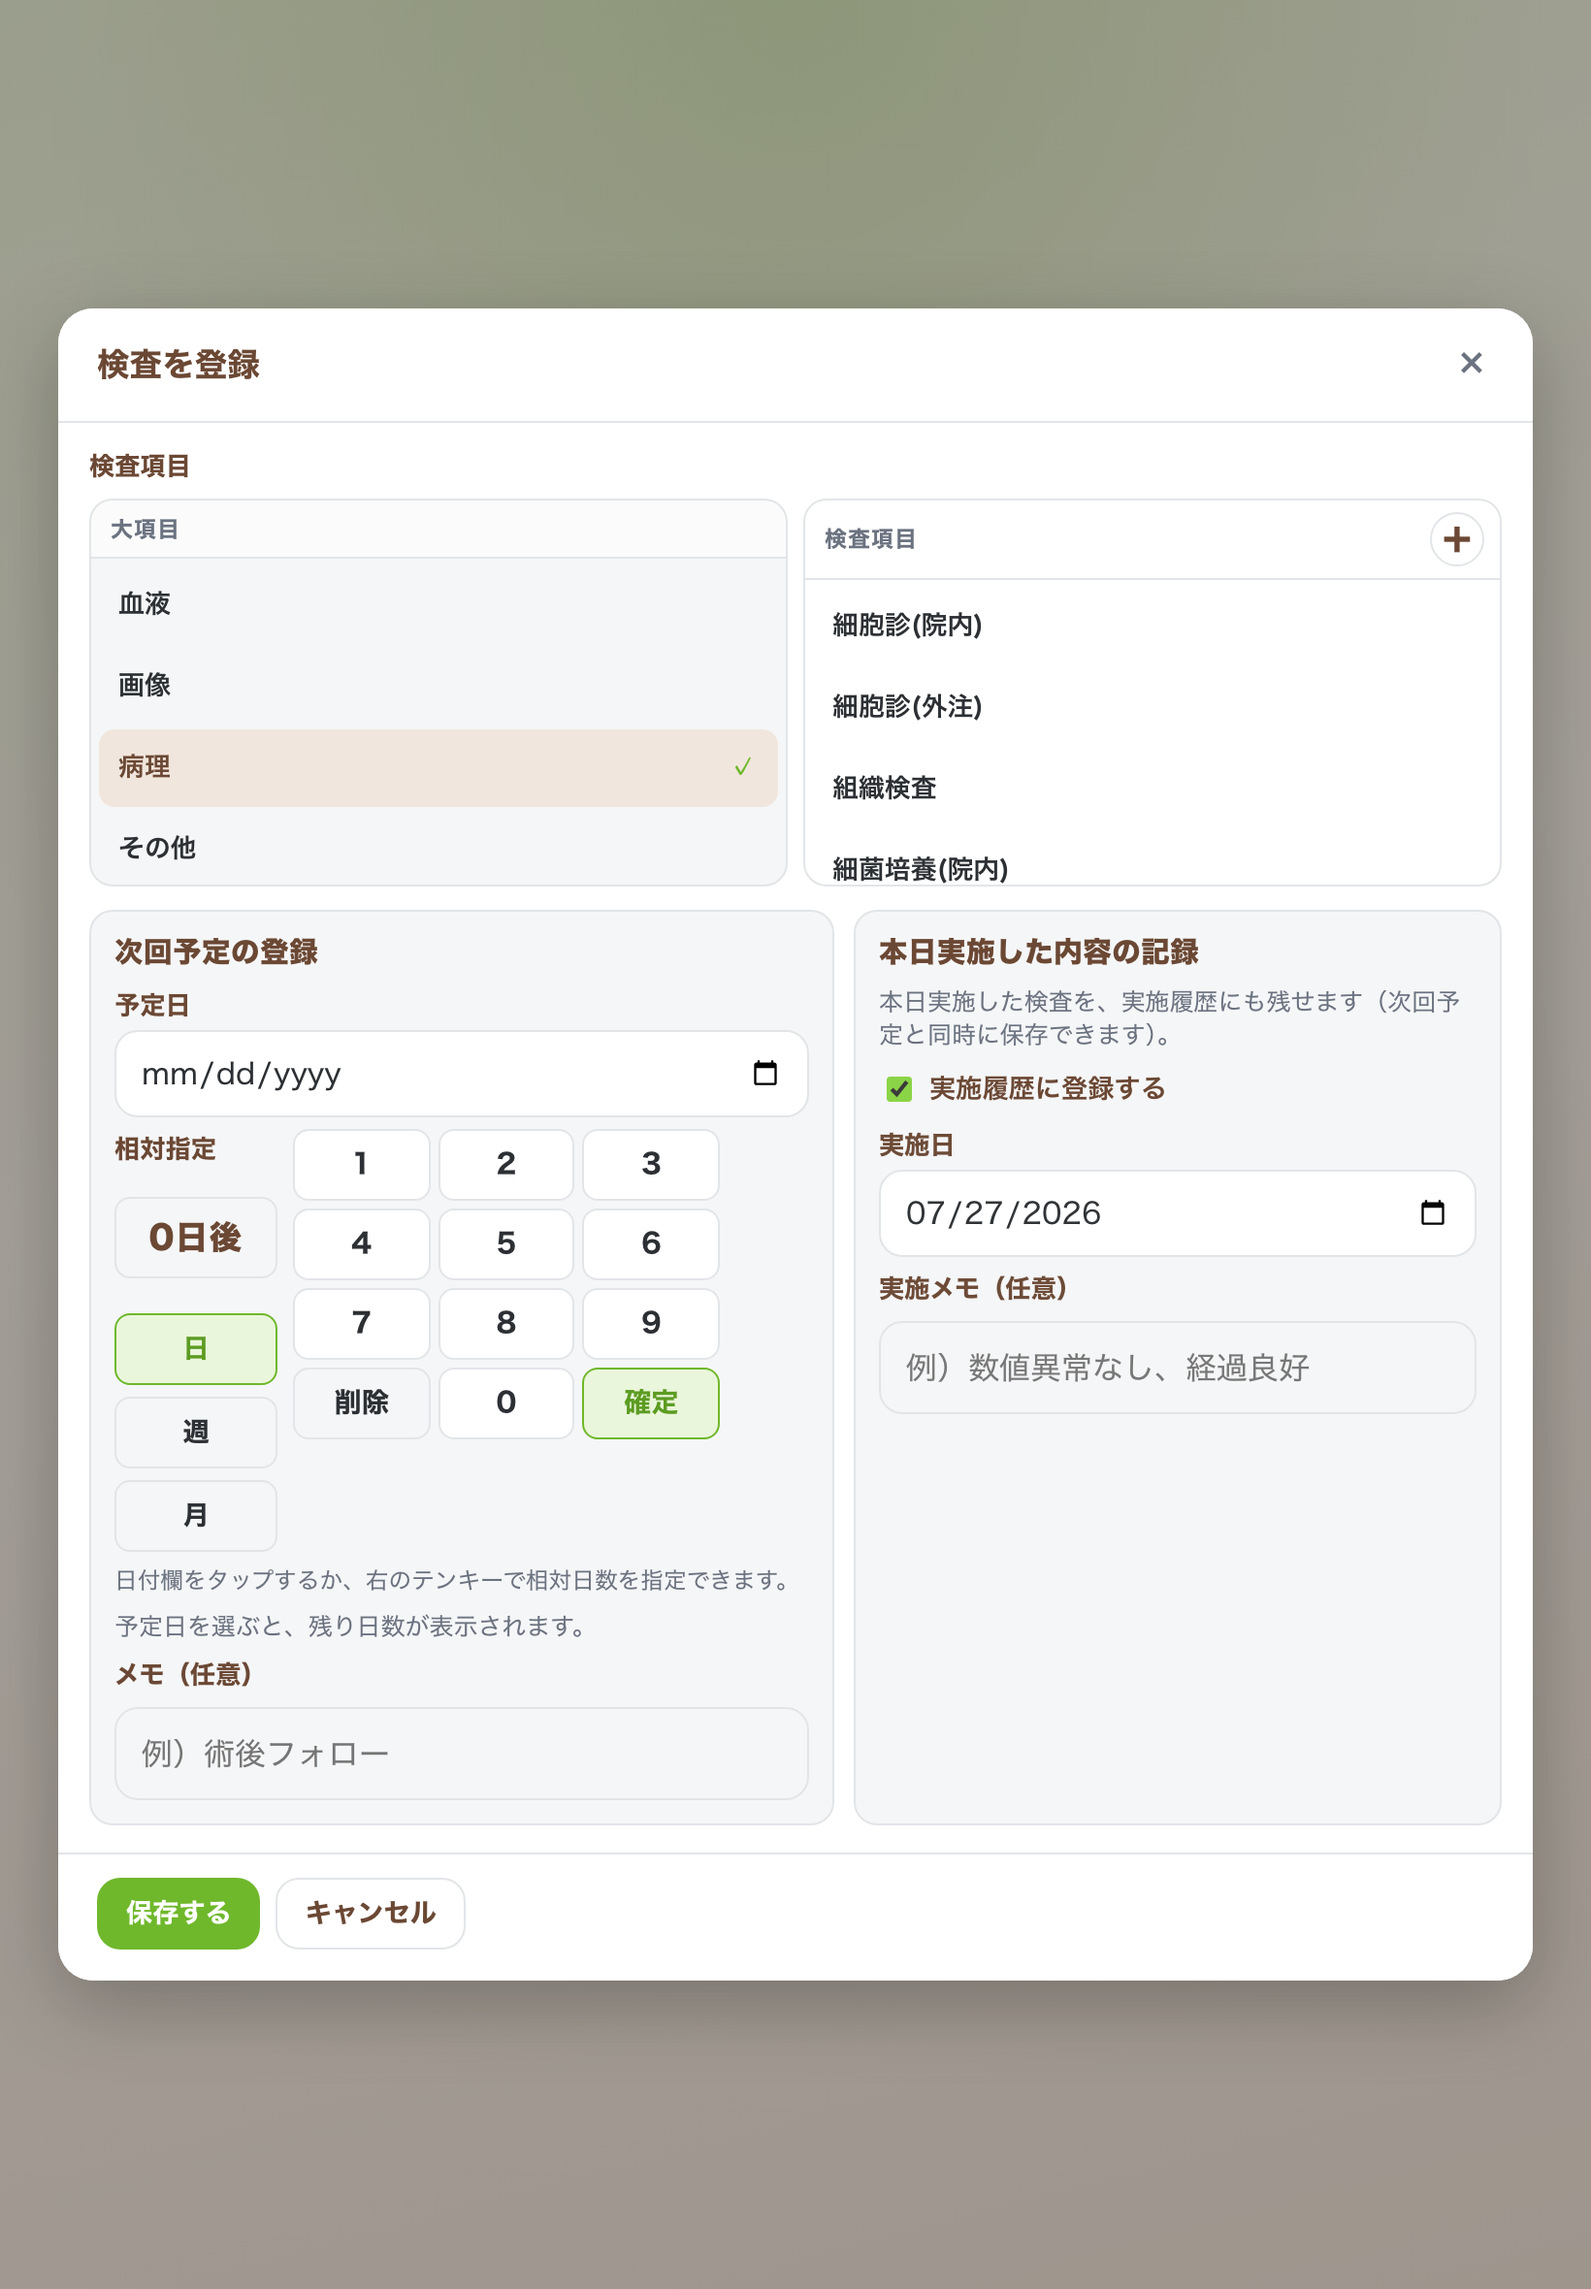
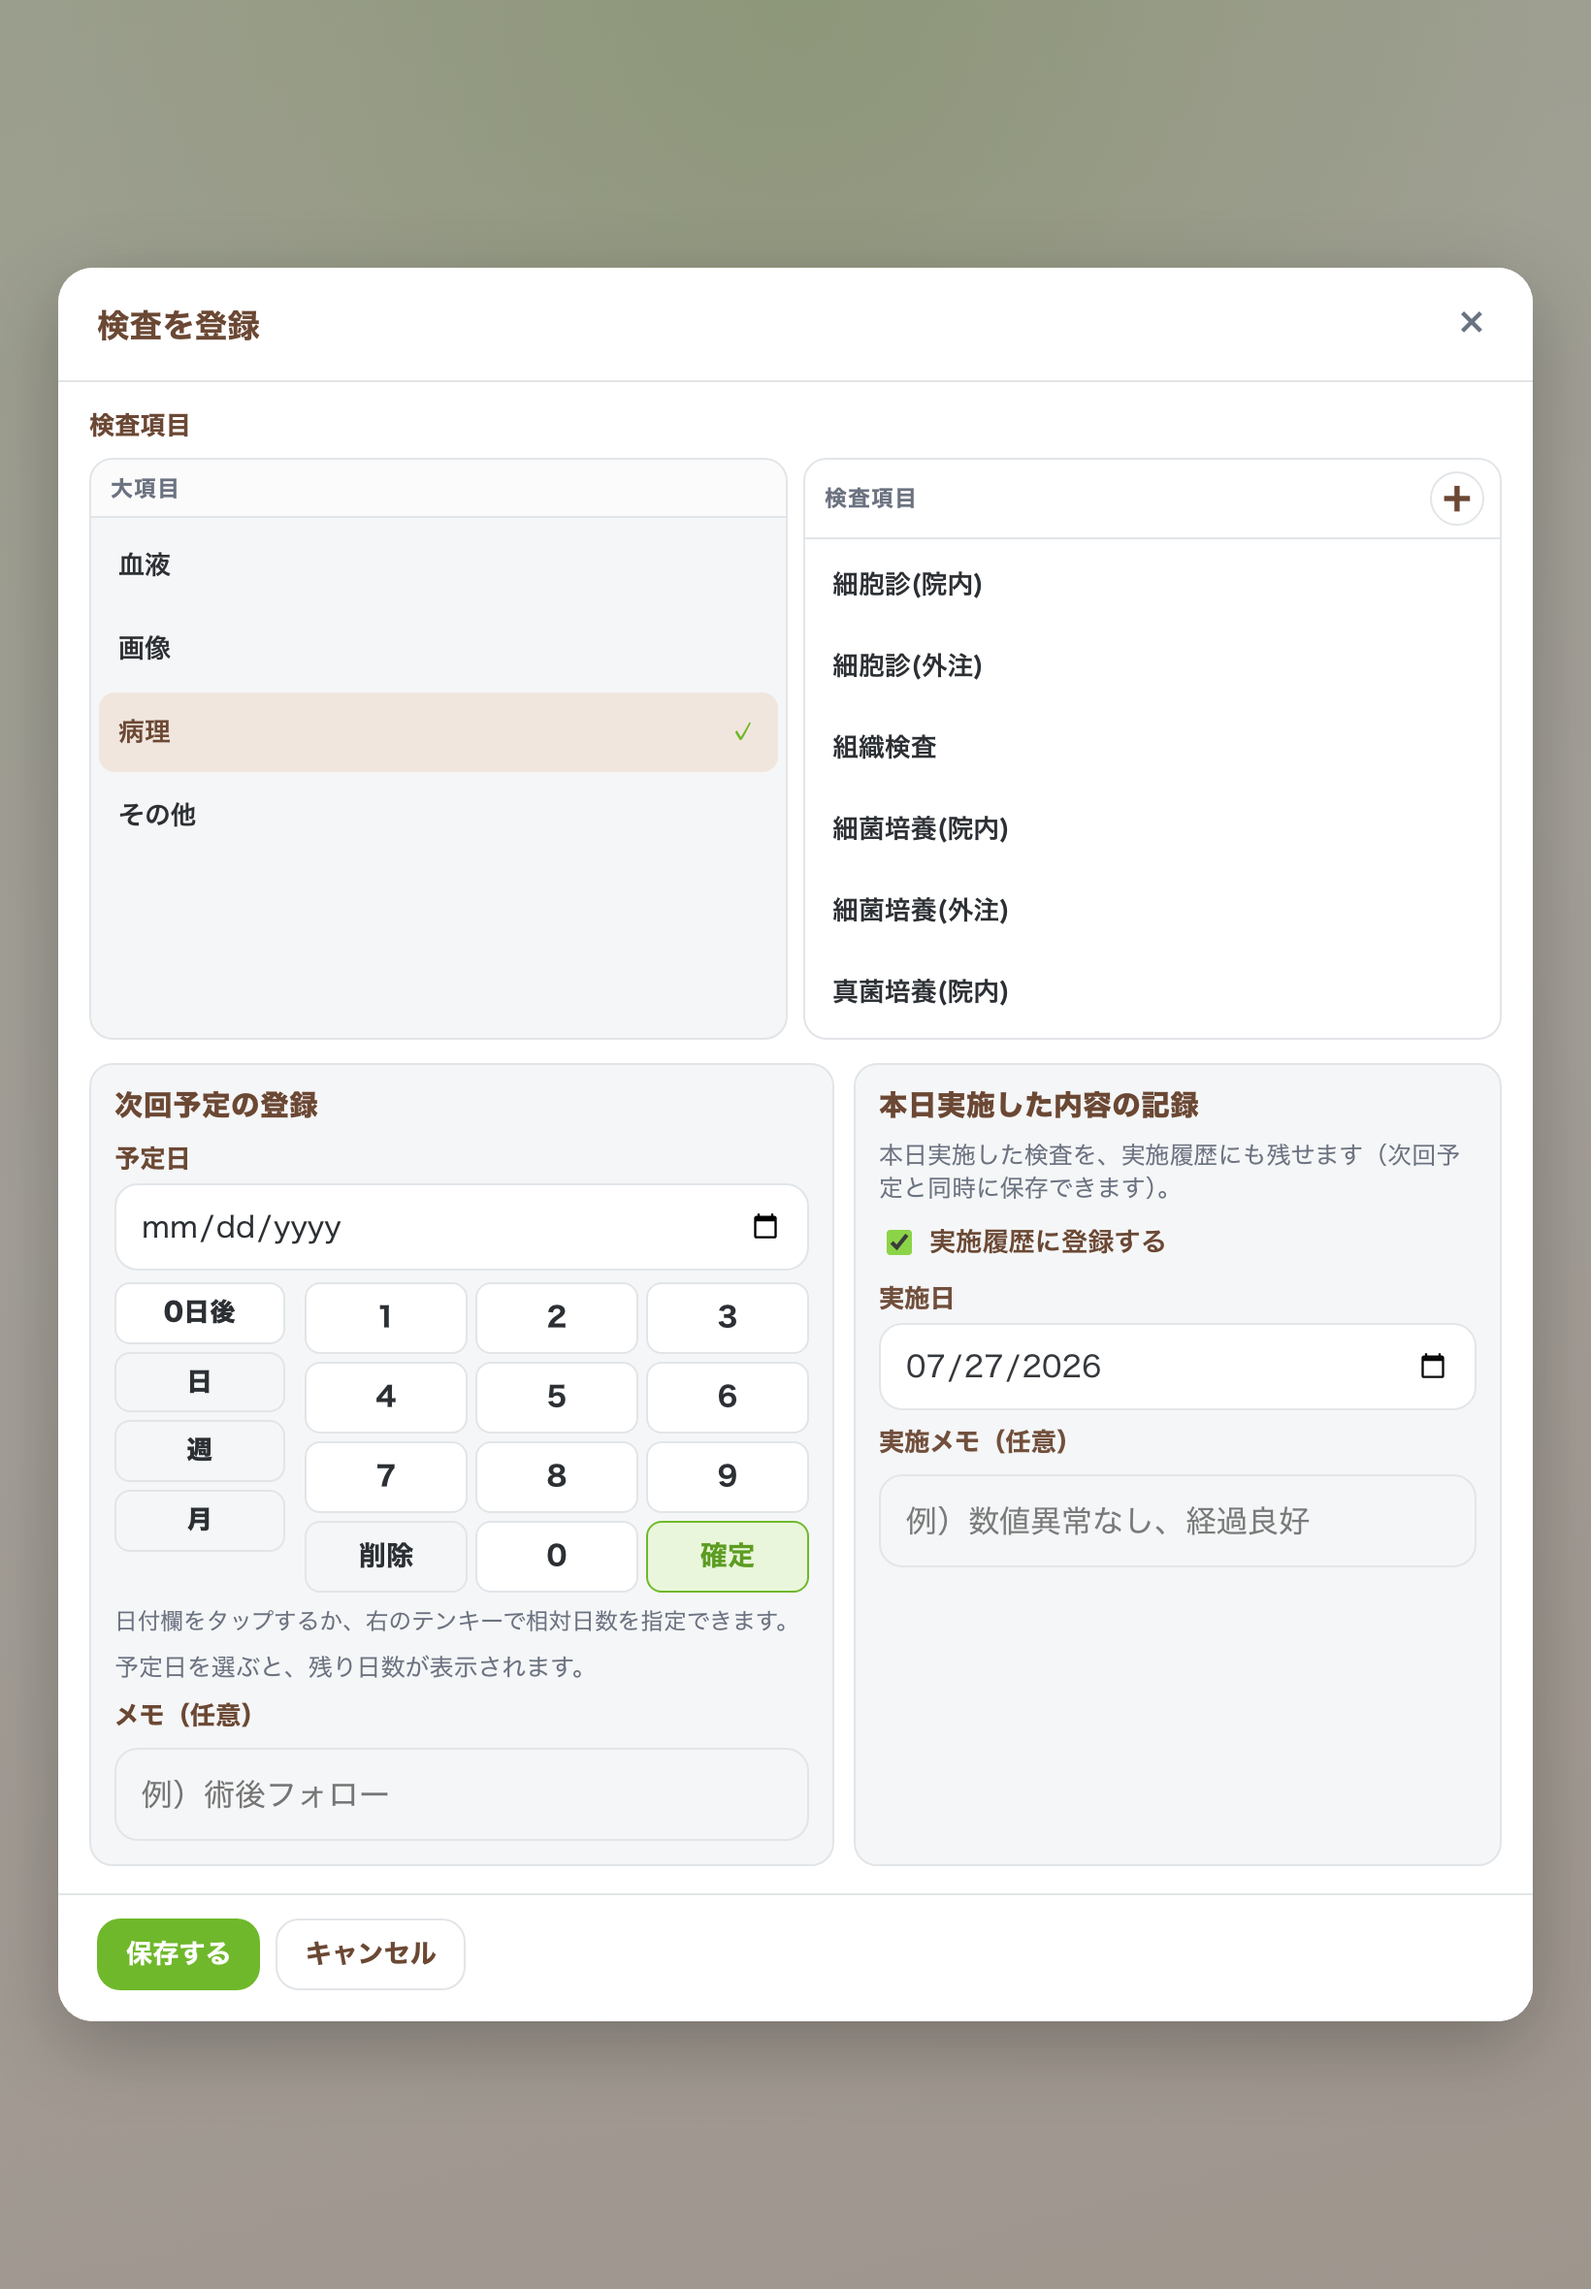
検査の次回予定ブロックで日付のはみ出しを直し、相対指定を縦4タイルに整理する。

diff --git a/css/style.css b/css/style.css
@@ -872,6 +872,7 @@ html.is-unlocked .app {
   border-radius: var(--radius-md);
   background: var(--color-cream);
   scroll-margin-top: 8px;
+  overflow-x: hidden;
 }
 
 .exam-plan-section__title {
@@ -892,70 +893,90 @@ html.is-unlocked .app {
   display: flex;
   flex-direction: column;
   gap: 6px;
+  min-width: 0;
+  max-width: 100%;
 }
 
 .exam-due-compact__date-row {
   display: flex;
   flex-direction: column;
   gap: 2px;
+  min-width: 0;
+  max-width: 100%;
 }
 
 .exam-due-compact__date-row .label--sub,
-.exam-due-compact__units-label,
 .exam-plan-section .label--sub {
   margin-top: 0;
   margin-bottom: 0;
 }
 
-.exam-due-compact__date {
+.exam-due-compact__date,
+.exam-plan-section .input--date,
+.exam-plan-done-block .input--date {
   width: 100%;
+  max-width: 100%;
   min-width: 0;
+  box-sizing: border-box;
   background-color: var(--color-white);
 }
 
 .exam-due-compact__relative {
   display: grid;
-  grid-template-columns: auto minmax(0, 1fr);
-  gap: 8px;
+  grid-template-columns: minmax(4.75rem, 5.5rem) minmax(0, 1fr);
+  gap: 10px;
   align-items: start;
+  min-width: 0;
 }
 
+/* 「0日後／日／週／月」を1列に揃え、テンキーと明確に分離 */
 .exam-due-compact__units {
   display: flex;
   flex-direction: column;
-  gap: 6px;
-  min-width: 5.25rem;
-}
-
-.exam-due-compact__units-head {
-  display: flex;
-  flex-direction: column;
-  align-items: stretch;
   gap: 4px;
+  min-width: 0;
+  width: 100%;
 }
 
-.interval-unit-buttons--stack {
+.exam-due-compact__units .interval-unit-buttons--stack {
+  display: flex;
   flex-direction: column;
   flex-wrap: nowrap;
   gap: 4px;
   margin-top: 0;
 }
 
-.interval-unit-buttons--stack .interval-unit-btn {
+.exam-due-compact__units .interval-unit-buttons--stack .interval-unit-btn,
+.exam-due-compact__units .interval-value-display--compact {
   width: 100%;
-  padding: 7px 8px;
-  text-align: center;
-}
-
-.interval-value-display--compact {
+  box-sizing: border-box;
   margin: 0;
-  padding: 5px 6px;
+  padding: 7px 6px;
+  text-align: center;
   font-size: 0.82rem;
   font-weight: 800;
   line-height: 1.2;
   letter-spacing: 0.02em;
-  text-align: center;
+  border-radius: var(--radius-sm);
+  border: 1.5px solid var(--color-border);
+}
+
+.exam-due-compact__units .interval-value-display--compact {
   background-color: var(--color-white);
+  color: var(--color-text);
+}
+
+.exam-due-compact__units .interval-unit-buttons--stack .interval-unit-btn {
+  background-color: var(--color-cream);
+  color: var(--color-text);
+  cursor: pointer;
+  font-family: inherit;
+}
+
+.exam-due-compact__relative .numpad.numpad--compact {
+  justify-self: stretch;
+  max-width: none;
+  width: 100%;
 }
 
 .exam-due-compact__hint {
@@ -1044,35 +1065,19 @@ html.is-unlocked .app {
   }
 
   .exam-due-compact__relative {
-    grid-template-columns: 1fr;
-    gap: 6px;
-  }
-
-  .exam-due-compact__units {
-    min-width: 0;
-    gap: 6px;
-  }
-
-  .exam-due-compact__units-head {
-    flex-direction: row;
-    align-items: center;
-    justify-content: space-between;
+    grid-template-columns: minmax(4.75rem, 5.5rem) minmax(0, 1fr);
     gap: 8px;
   }
 
-  .interval-unit-buttons--stack {
-    flex-direction: row;
+  .exam-due-compact__units,
+  .exam-due-compact__units .interval-unit-buttons--stack {
+    flex-direction: column;
   }
 
-  .interval-unit-buttons--stack .interval-unit-btn {
-    width: auto;
-    flex: 1 1 0;
-    padding: 6px 8px;
-  }
-
-  .interval-value-display--compact {
-    min-width: 4.25rem;
-    padding: 6px 8px;
+  .exam-due-compact__units .interval-unit-buttons--stack .interval-unit-btn {
+    width: 100%;
+    flex: 0 0 auto;
+    padding: 7px 6px;
   }
 
   .exam-due-compact__hint {

diff --git a/index.html b/index.html
@@ -757,21 +757,22 @@
               />
             </div>
             <div class="exam-due-compact__relative">
-              <div class="exam-due-compact__units">
-                <div class="exam-due-compact__units-head">
-                  <span class="label label--sub exam-due-compact__units-label">相対指定</span>
-                  <p
-                    class="interval-value-display interval-value-display--compact"
-                    id="exam-plan-due-display"
-                  >
-                    0日後
-                  </p>
-                </div>
+              <div
+                class="exam-due-compact__units"
+                role="group"
+                aria-label="相対日数の単位"
+              >
+                <p
+                  class="interval-value-display interval-value-display--compact"
+                  id="exam-plan-due-display"
+                >
+                  0日後
+                </p>
                 <div
                   class="interval-unit-buttons interval-unit-buttons--stack"
                   id="exam-plan-due-units"
                   role="group"
-                  aria-label="相対指定の単位"
+                  aria-label="日・週・月"
                 ></div>
               </div>
               <div
@@ -1312,21 +1313,22 @@
             />
           </div>
           <div class="exam-due-compact__relative">
-            <div class="exam-due-compact__units">
-              <div class="exam-due-compact__units-head">
-                <span class="label label--sub exam-due-compact__units-label">相対指定</span>
-                <p
-                  class="interval-value-display interval-value-display--compact"
-                  id="procedure-plan-due-display"
-                >
-                  0日後
-                </p>
-              </div>
+            <div
+              class="exam-due-compact__units"
+              role="group"
+              aria-label="相対日数の単位"
+            >
+              <p
+                class="interval-value-display interval-value-display--compact"
+                id="procedure-plan-due-display"
+              >
+                0日後
+              </p>
               <div
                 class="interval-unit-buttons interval-unit-buttons--stack"
                 id="procedure-plan-due-units"
                 role="group"
-                aria-label="相対指定の単位"
+                aria-label="日・週・月"
               ></div>
             </div>
             <div

diff --git a/service-worker.js b/service-worker.js
@@ -8,7 +8,7 @@
 //
 // ※ CACHE_VERSION を上げるときは js/app-version.js の APP_VERSION / CACHE_LABEL も合わせて更新する。
 
-const CACHE_VERSION = "v123";
+const CACHE_VERSION = "v124";
 const CACHE_NAME = `nyuta-karte-log-${CACHE_VERSION}`;
 
 const APP_SHELL_FILES = [

diff --git a/js/app-version.js b/js/app-version.js
@@ -1,3 +1,3 @@
 // アプリの表示用バージョン。Service Worker の CACHE_VERSION と合わせて更新する。
-export const APP_VERSION = "1.9.80";
-export const CACHE_LABEL = "v123";
+export const APP_VERSION = "1.9.81";
+export const CACHE_LABEL = "v124";
